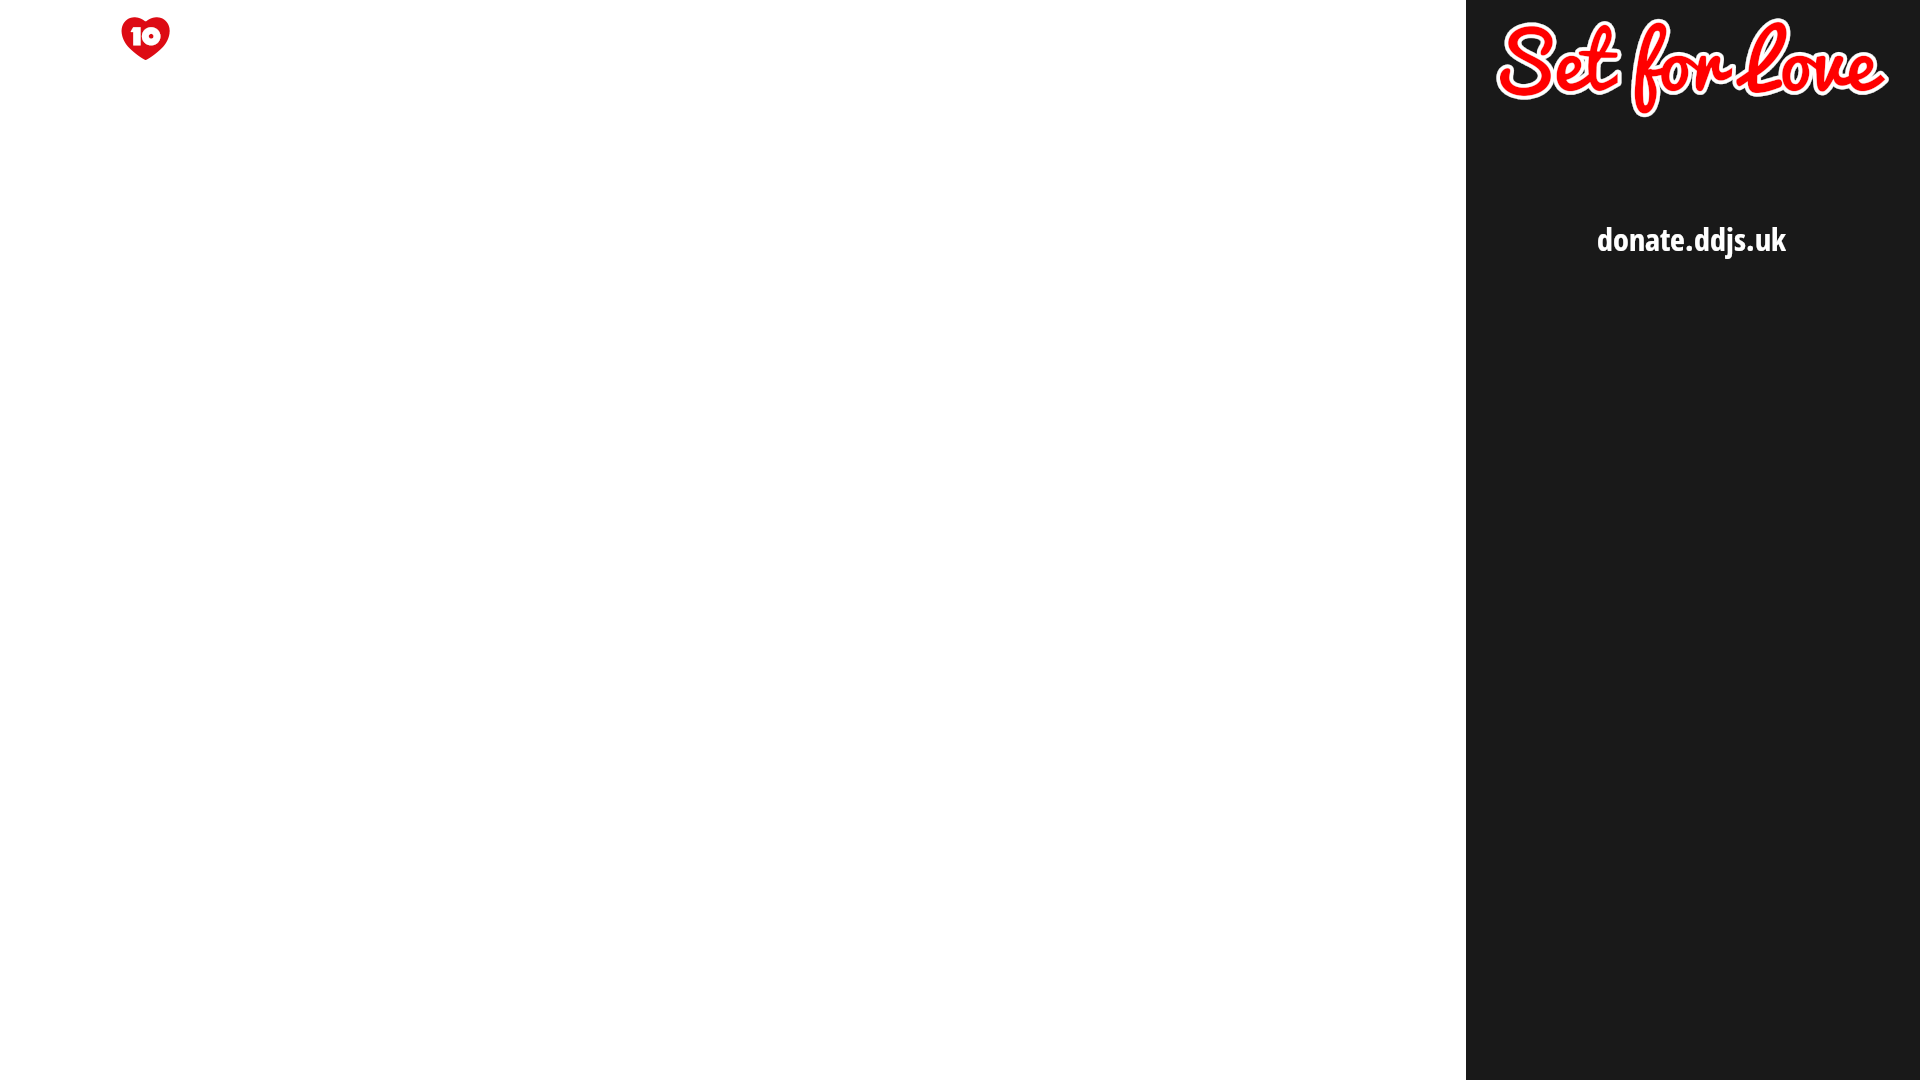
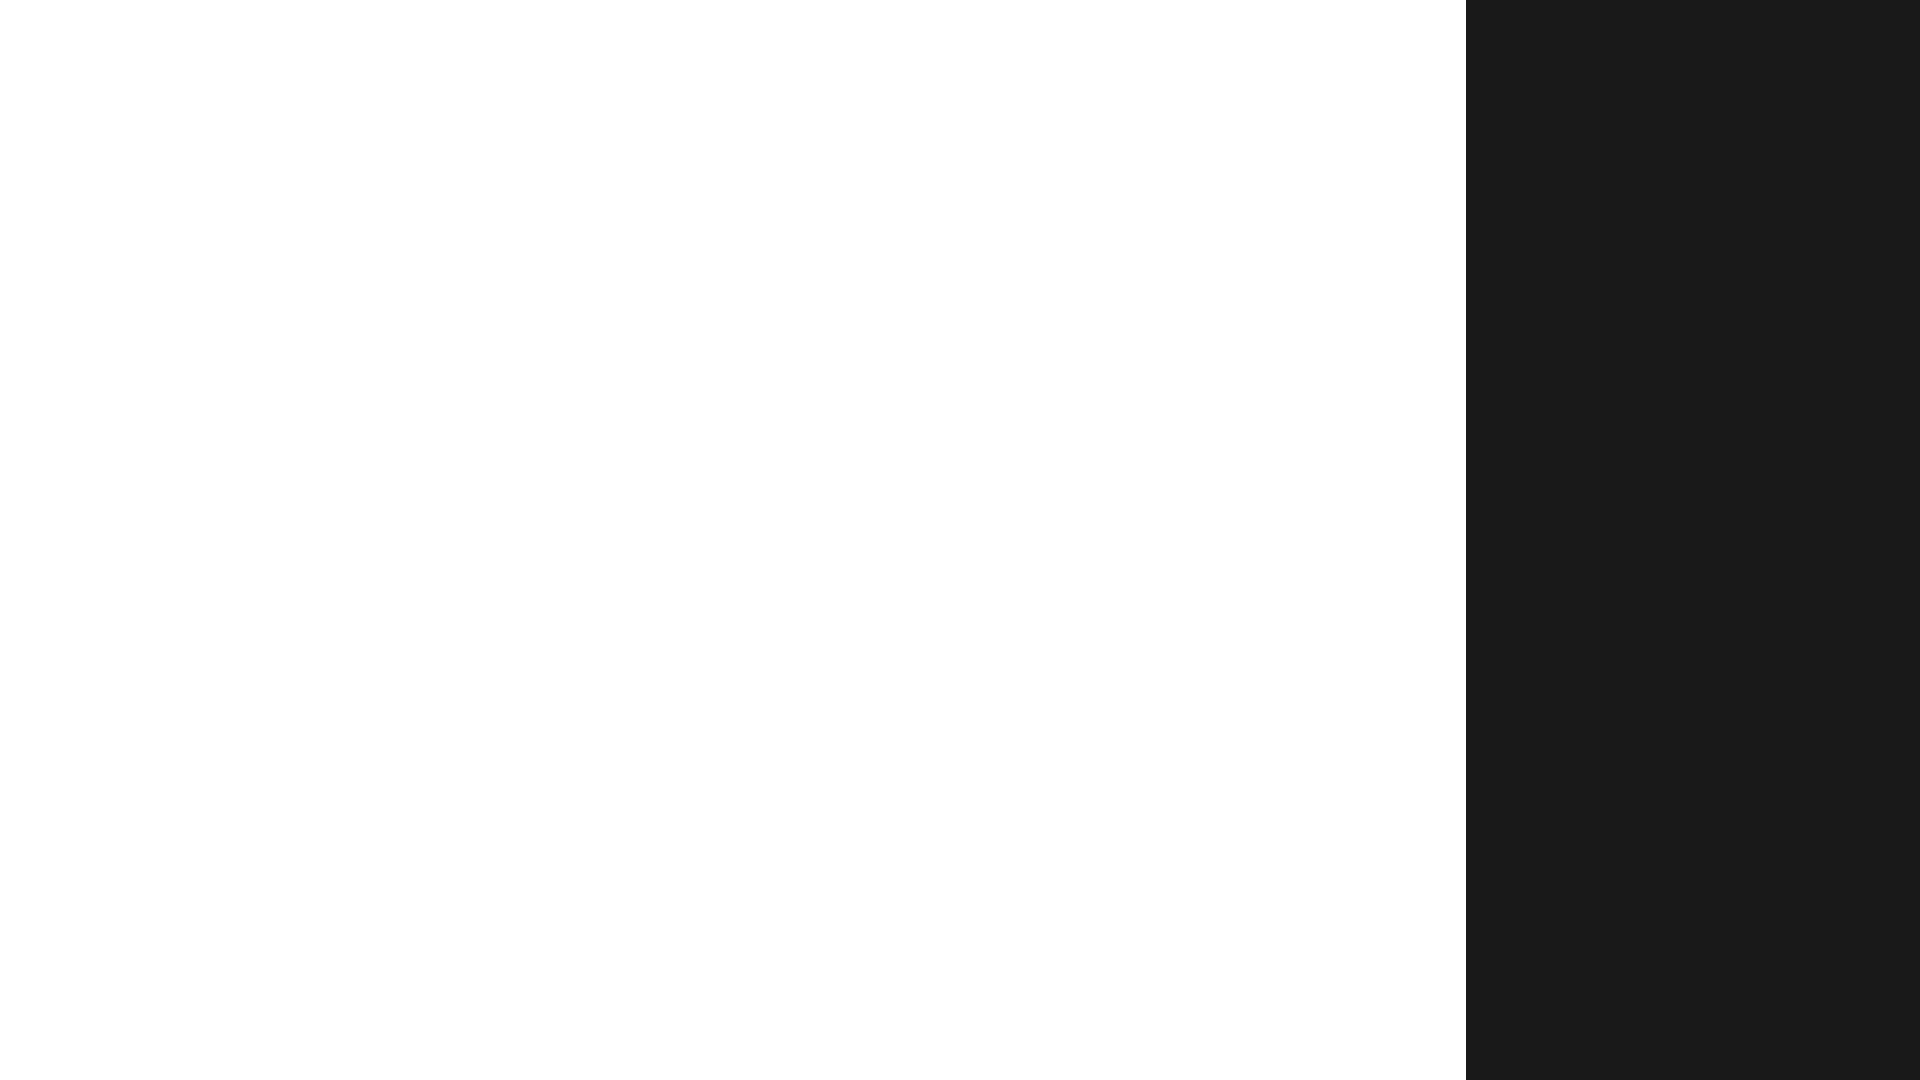
Make standard (ie, non-SFL) DDJS overlay

Changed region(s): [[0.7812, 0.0, 1.0, 0.1222], [0.8125, 0.2139, 0.9375, 0.2444], [0.0625, 0.0, 0.0938, 0.0611]]

diff --git a/widgets/overlay.html b/widgets/overlay.html
@@ -22,24 +22,18 @@
             left: 0;
             transform-origin: 0 100%;
         }
-
-        #progress {
-            top: 130px;
-            left: 1473px;
-        }
     </style>
 </head>
 <body>
-    <img src="assets/overlay_sfl.png">
+    <img src="assets/overlay.png">
     <iframe id="nametag" width="3840" height="540"></iframe>
-    <iframe id="progress" width="440" height="100" src="https://live.justgiving.com/pages/widgets/v1/donation-progressbar?streamerId=58e2e7de-aac4-4aec-9970-286b62e949a5"></iframe>
     <script>
         // Pass DJ name through to nametag widget
         const params = new URLSearchParams(window.location.search);
 
         const name = params.has('name') ? params.get('name') : 'Name not set';
 
-        if (name == 'deadW') {
+        if (name == 'none') {
             document.getElementById('nametag').remove();
         }
         else {

diff --git a/widgets/mixcloud_chat.css b/widgets/mixcloud_chat.css
@@ -1,0 +1,43 @@
+html {
+    overflow: hidden;
+}
+
+body {
+    background: none;
+}
+
+div.site-wrapper {
+    background: none;
+    box-shadow: none;
+}
+
+div.mixcloud-live-chat-container-outer {
+    height: 100%;
+    overflow: hidden;
+    display: flex;
+}
+
+div.mixcloud-live-chat-container {
+    background: none;
+    padding: 10px;
+    width: 100vw;
+}
+
+div.mixcloud-live-chat-chat-window {
+    background: none;
+    height: 100vh;
+}
+
+div.mixcloud-live-chat-chat-window > div:last-child {
+    display: none;
+}
+
+div.mixcloud-live-chat-row {
+    background: rgba(255, 255, 255, 0.15);
+    margin: 10px 0 0 0;
+    border-radius: 5px;
+}
+
+div.styles__ChatRowMenu-sc-1eo8mtu-9 {
+    visibility: hidden;
+}
